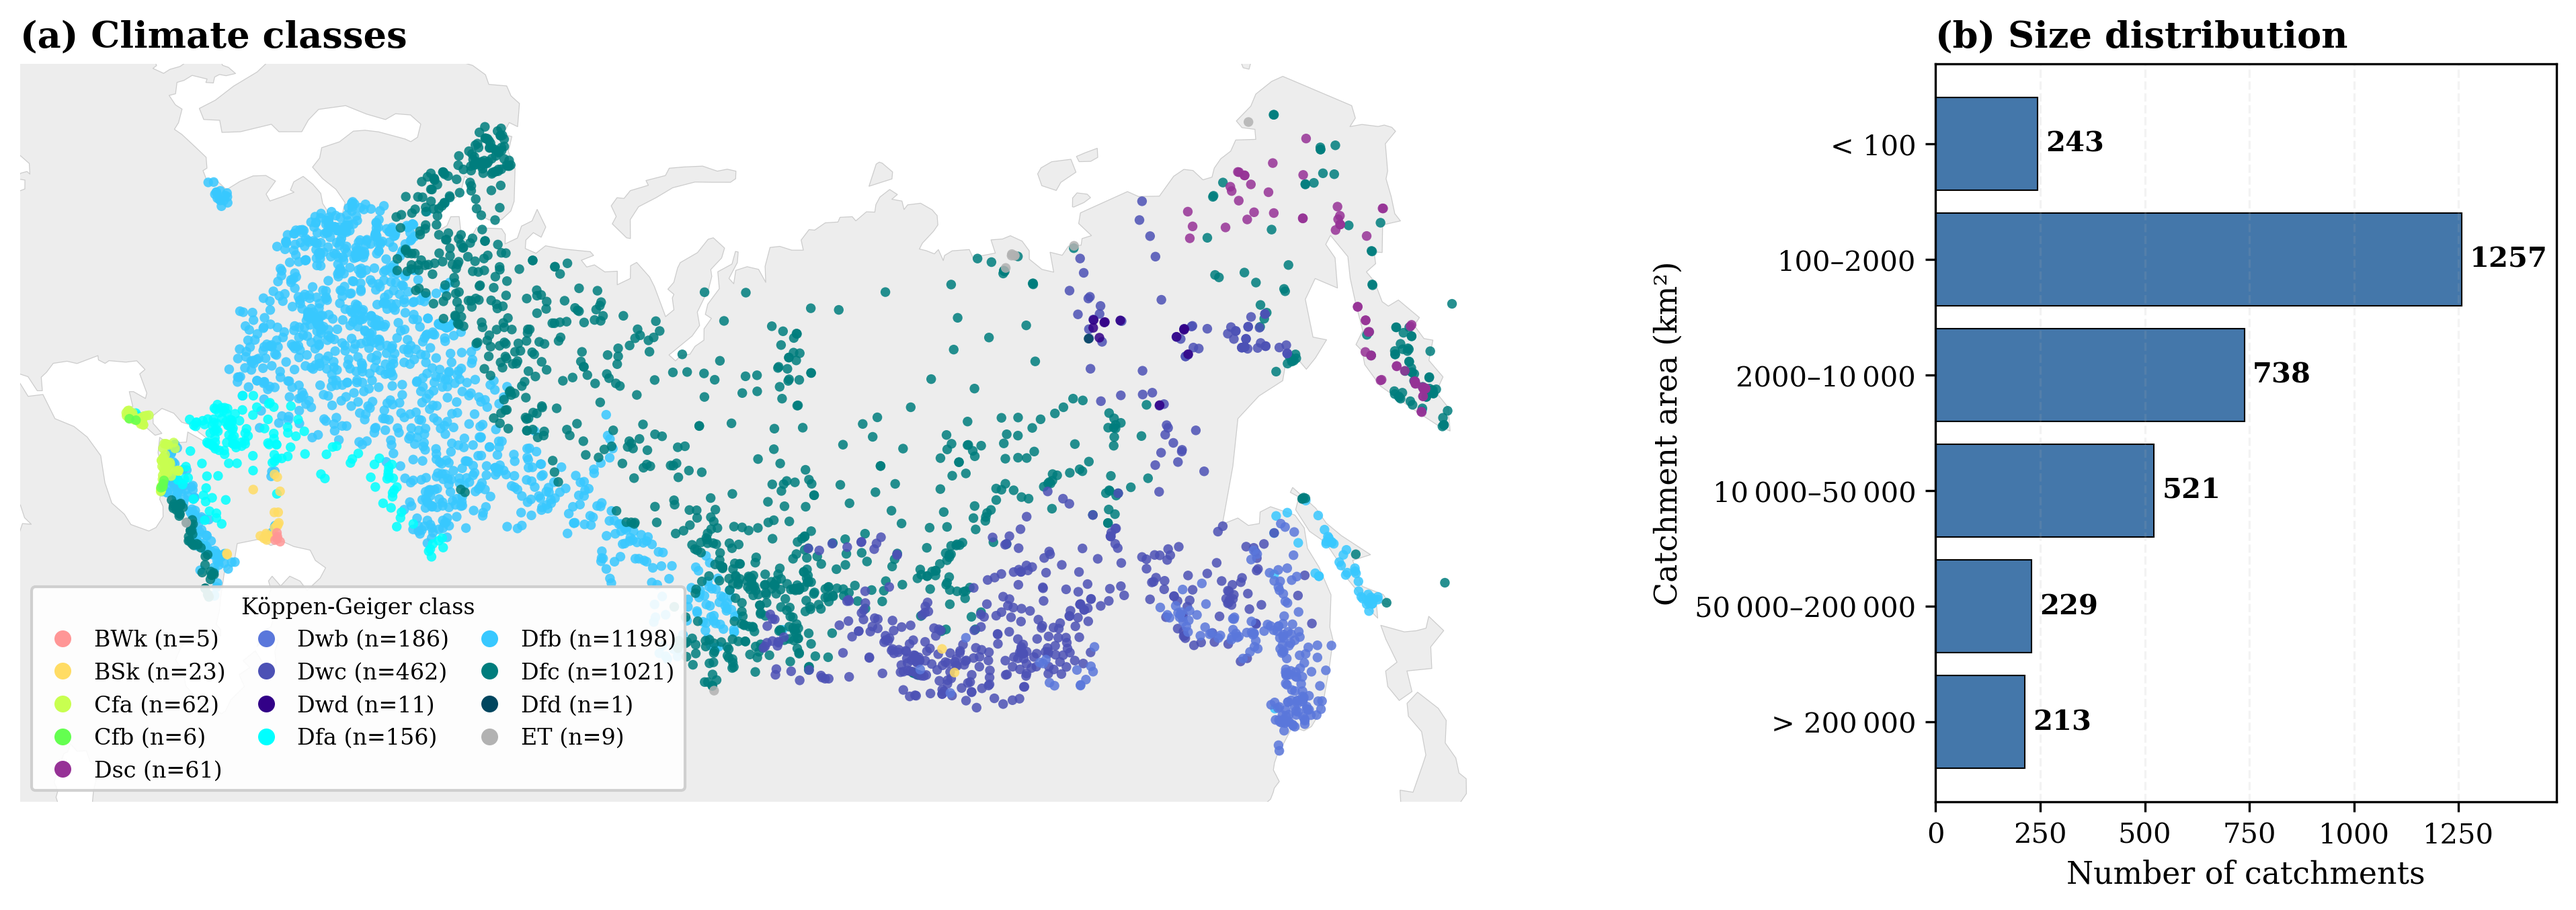
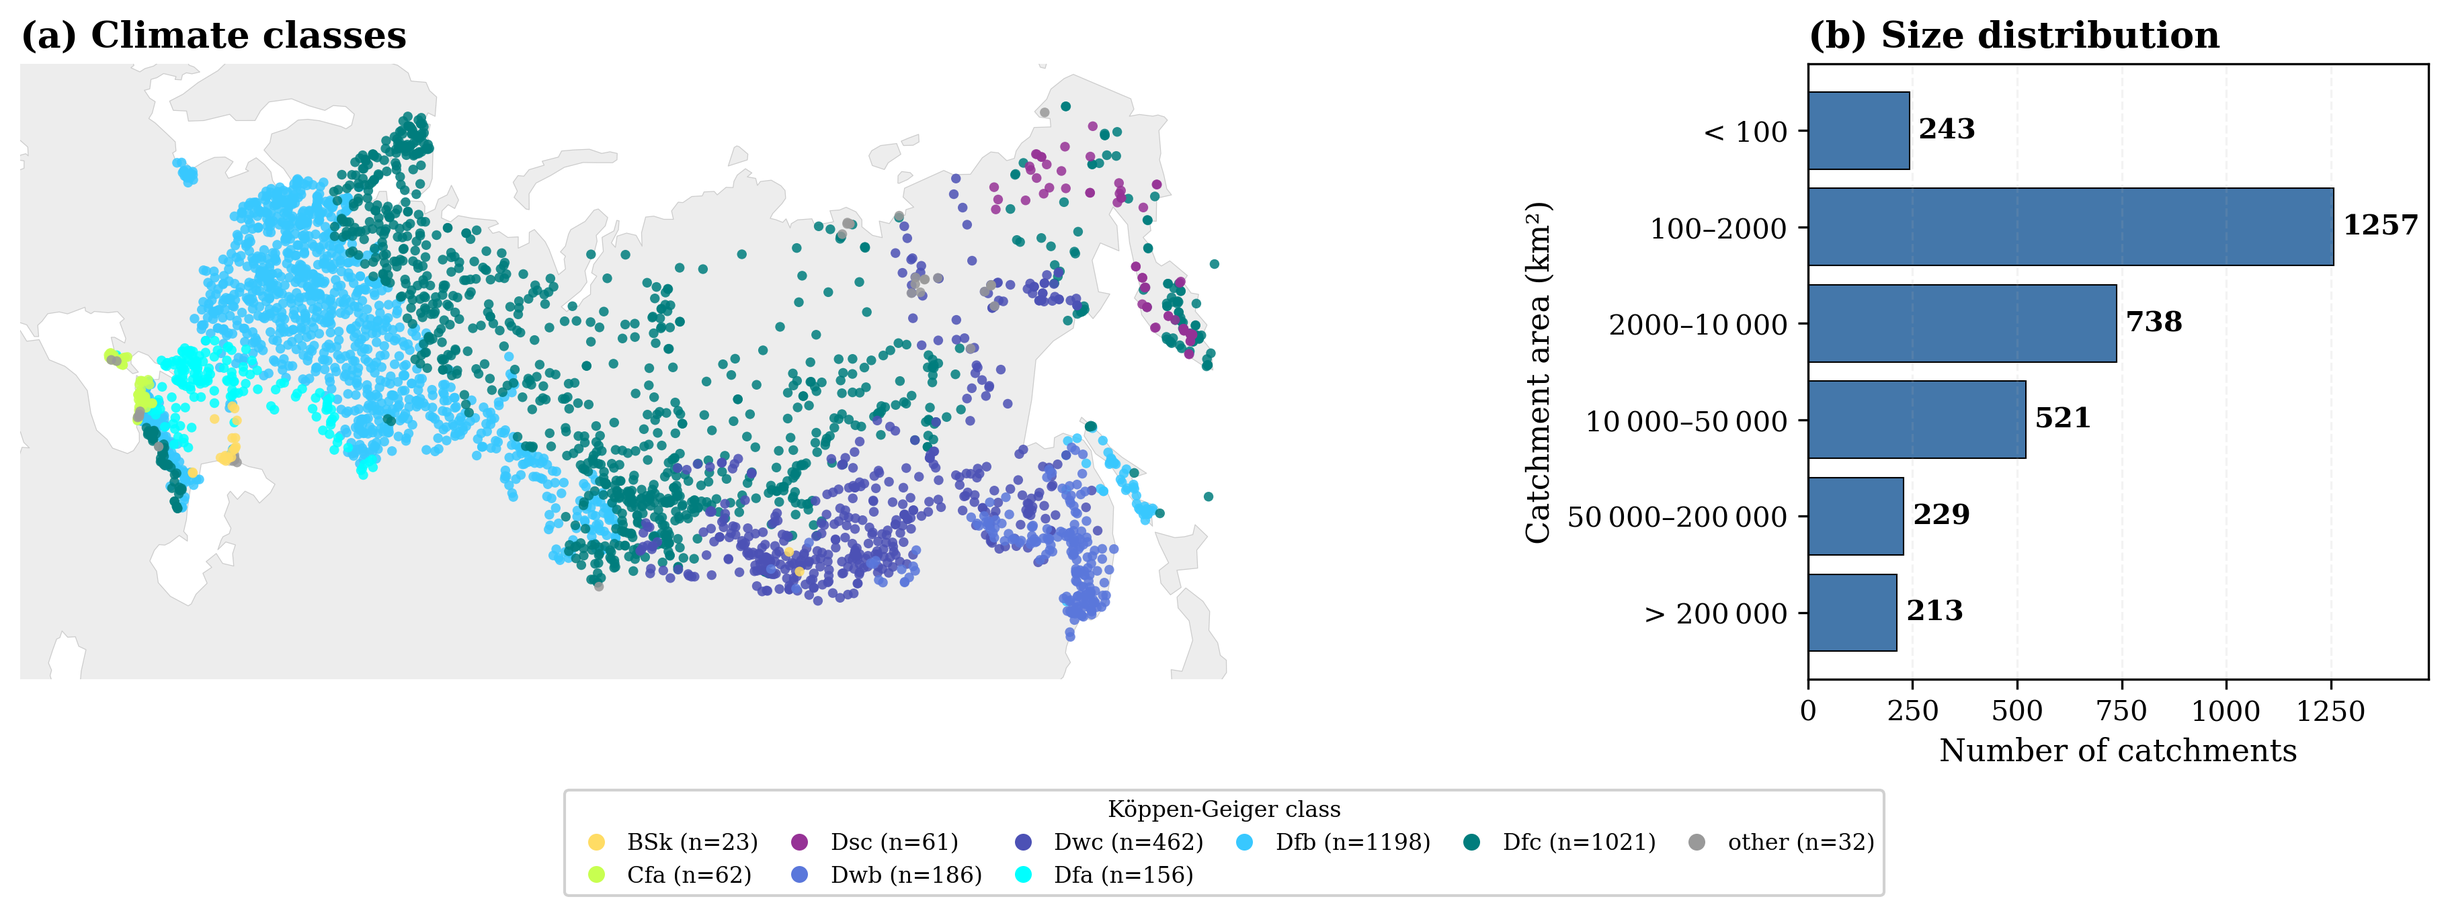
fix(plots): Fig. 1 legend outside the map frame; n<=11 classes merged to other
Round-6 editor m7: the legend no longer covers the Caspian/Black Sea gauge
cluster, and the six Koppen classes with 11 or fewer catchments merge into a
grey other class (n=32). The script now saves once and copy2s the second
output, so the paper/ and overleaf/ copies are byte-identical.

Claude-Session: https://claude.ai/code/session_01E7YWKvkoaSFZxKDhty2sEV

diff --git a/scripts/regenerate_gauge_network_figure.py b/scripts/regenerate_gauge_network_figure.py
@@ -24,6 +24,7 @@ from __future__ import annotations
 import argparse
 from pathlib import Path
 import re
+import shutil
 import sys
 import warnings
 
@@ -70,6 +71,8 @@ plt.rcParams.update(
 
 # Köppen-Geiger legend colours in the Peel et al. (2007) / Beck et al. (2018) convention;
 # dict order is the canonical legend order.
+MERGE_MAX = 11  # classes with at most this many catchments merge into "other"
+
 KG_COLORS = {
     "BWk": "#FF9696",
     "BSk": "#FFDC64",
@@ -209,8 +212,17 @@ def build_figure(gauge: gpd.GeoDataFrame, size_counts: pd.Series) -> plt.Figure:
     )
 
     counts = gauge["kg"].value_counts()
+    # Classes with MERGE_MAX or fewer catchments merge into a grey "other" class:
+    # their individual dots are indistinguishable at map scale, and dropping the
+    # rare hues keeps the remaining palette legible (round-6 editor m7).
+    rare = {c for c in counts.index if c and counts[c] <= MERGE_MAX}
+    gauge = gauge.copy()
+    gauge.loc[gauge["kg"].isin(rare), "kg"] = "other"
+    counts = gauge["kg"].value_counts()
     classes = [c for c in KG_COLORS if c in counts.index]
-    classes += sorted(c for c in counts.index if c and c not in KG_COLORS)
+    classes += sorted(c for c in counts.index if c and c != "other" and c not in KG_COLORS)
+    if "other" in counts.index:
+        classes.append("other")
     # Draw the common classes first so the rare ones stay visible on top.
     for cls in sorted(classes, key=lambda c: -int(counts[c])):
         sub = gauge[gauge["kg"] == cls]
@@ -262,12 +274,15 @@ def build_figure(gauge: gpd.GeoDataFrame, size_counts: pd.Series) -> plt.Figure:
                 label=f"no class (n={len(unclassified)})",
             )
         )
-    ax_map.legend(
+    # The legend sits below the map, outside the frame, so it cannot cover the
+    # southwest gauge cluster it labels (round-6 editor m7).
+    fig = ax_map.get_figure()
+    fig.legend(
         handles=handles,
-        loc="lower left",
+        loc="outside lower center",
         fontsize=8,
         framealpha=0.9,
-        ncol=3,
+        ncol=6,
         columnspacing=0.8,
         handletextpad=0.4,
         title="Köppen-Geiger class",
@@ -316,11 +331,17 @@ def main() -> None:
 
     gauge, size_counts = load_data()
     fig = build_figure(gauge, size_counts)
+    # Save ONCE and copy: two bbox_inches="tight" saves crop a few pixels apart,
+    # so the paper/ and overleaf/ copies would never agree byte-for-byte.
     outputs = PAPER_OUTPUTS if args.write else (TEST_OUTPUT,)
-    for out in outputs:
+    first = outputs[0]
+    first.parent.mkdir(parents=True, exist_ok=True)
+    fig.savefig(first, dpi=300, bbox_inches="tight")
+    print(f"\nSaved: {first}")
+    for out in outputs[1:]:
         out.parent.mkdir(parents=True, exist_ok=True)
-        fig.savefig(out, dpi=300, bbox_inches="tight")
-        print(f"\nSaved: {out}")
+        shutil.copy2(first, out)
+        print(f"Copied: {out}")
     plt.close(fig)
 
 
